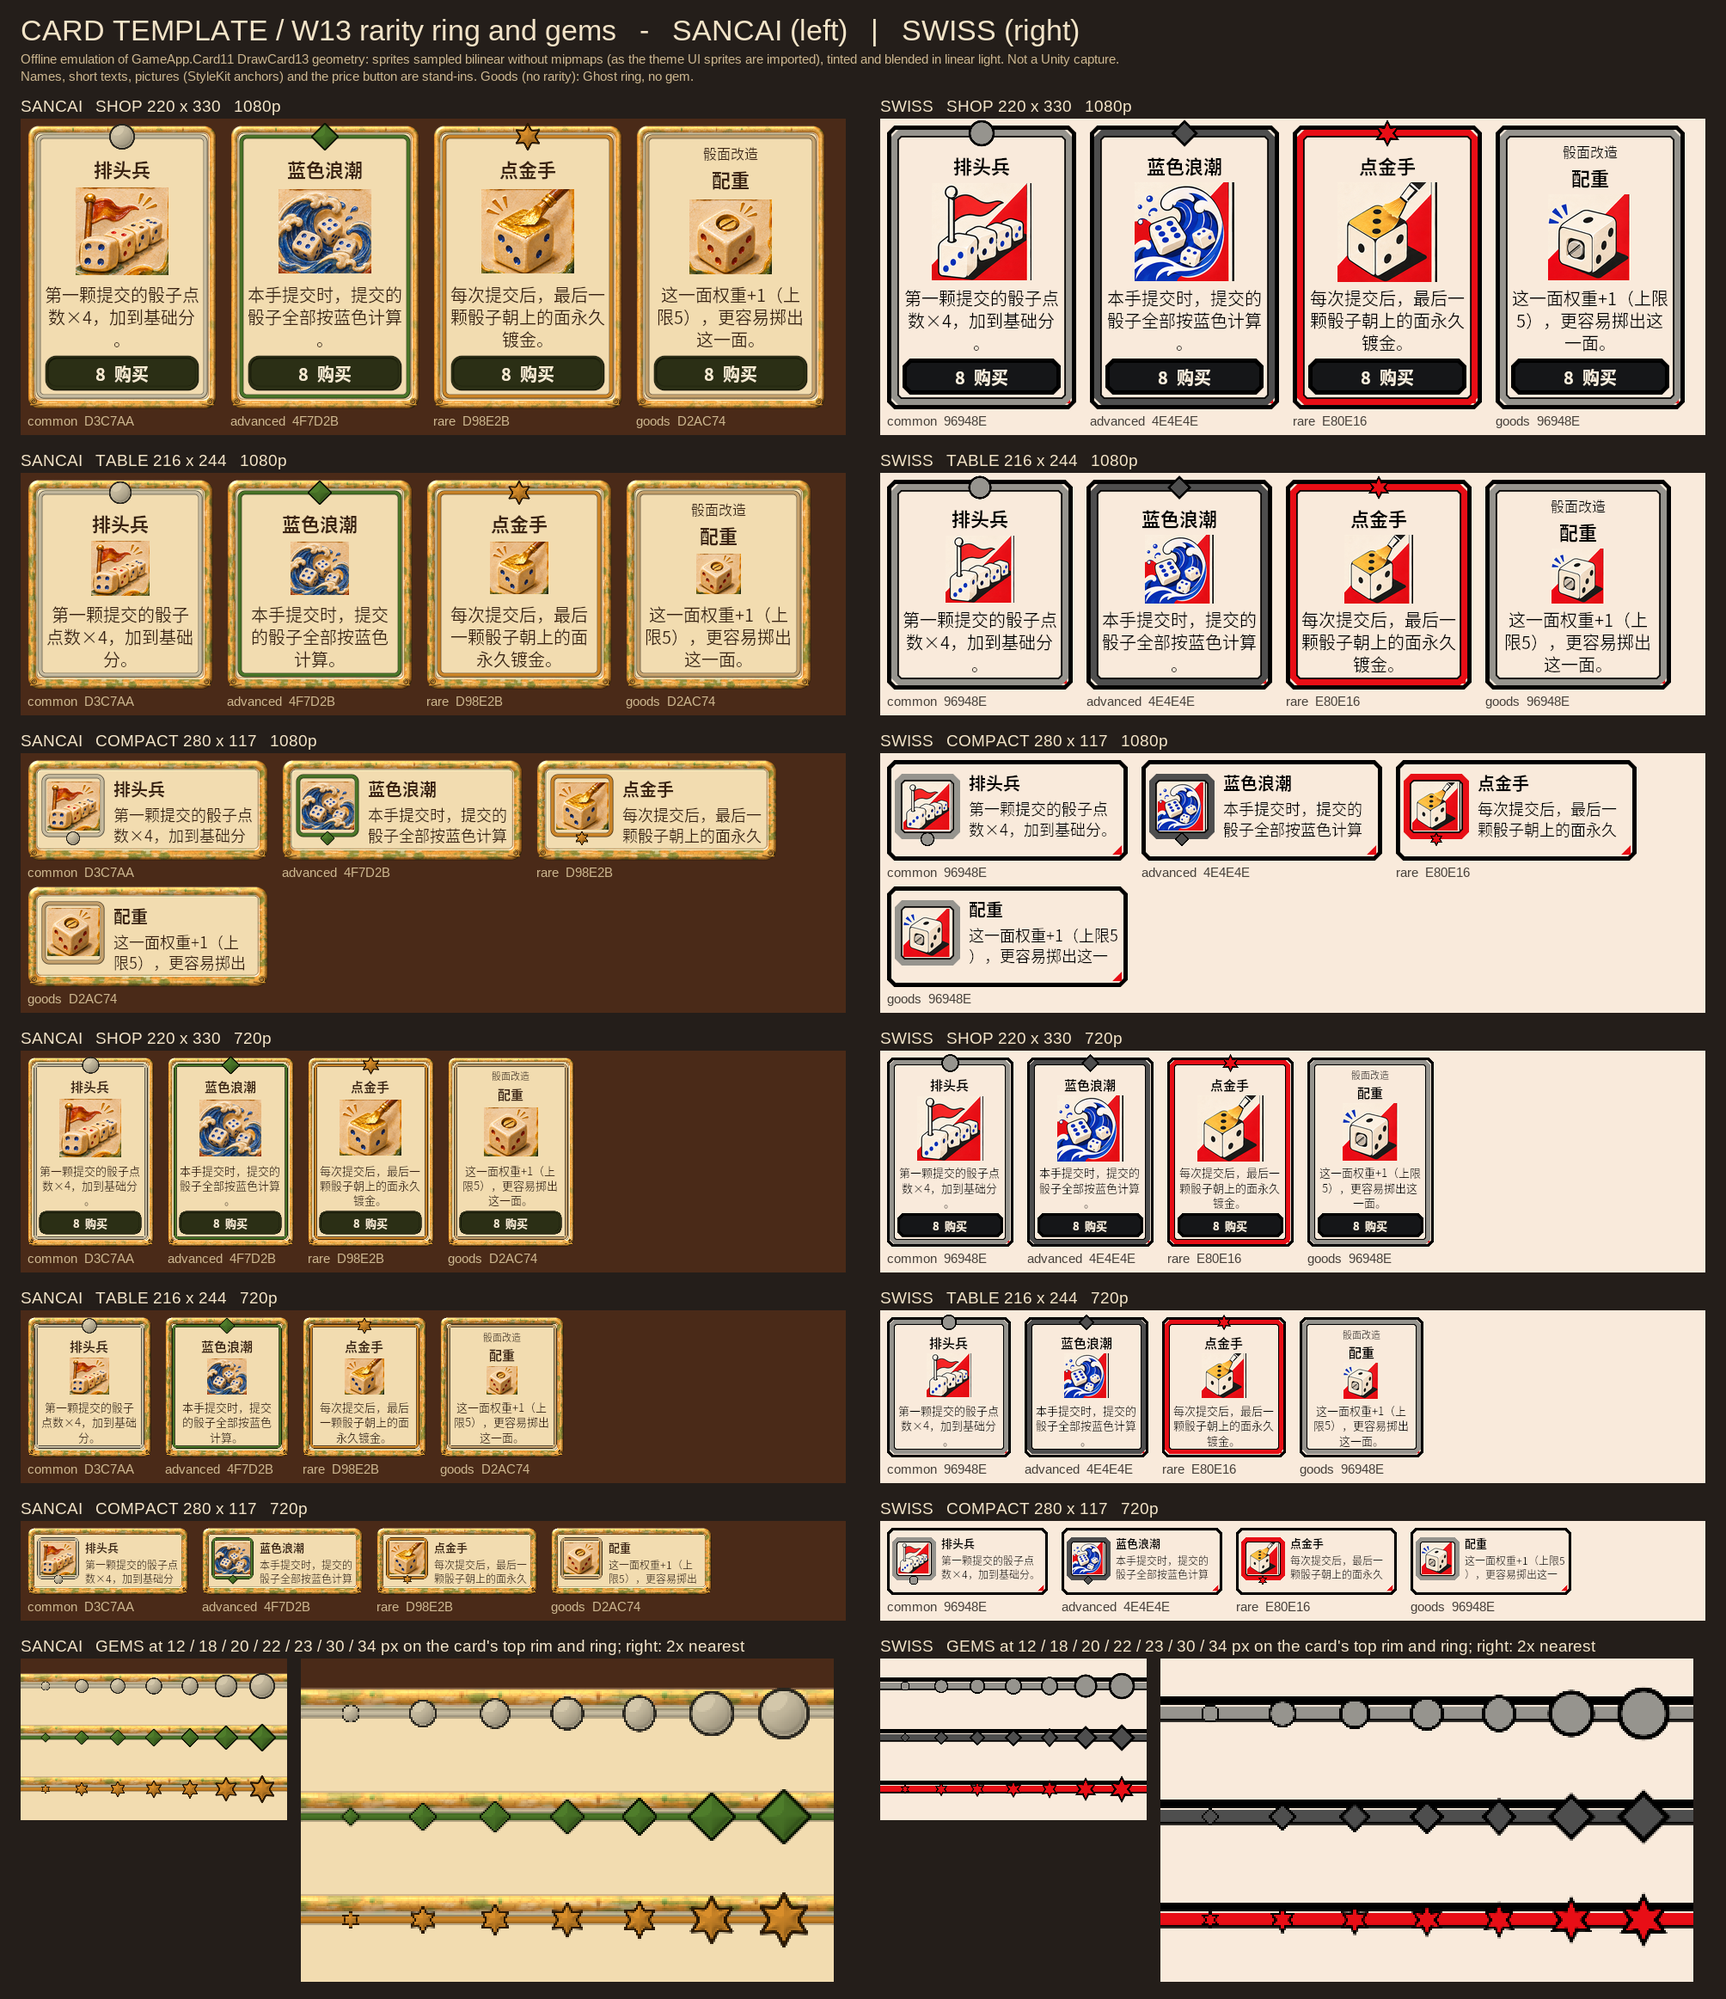
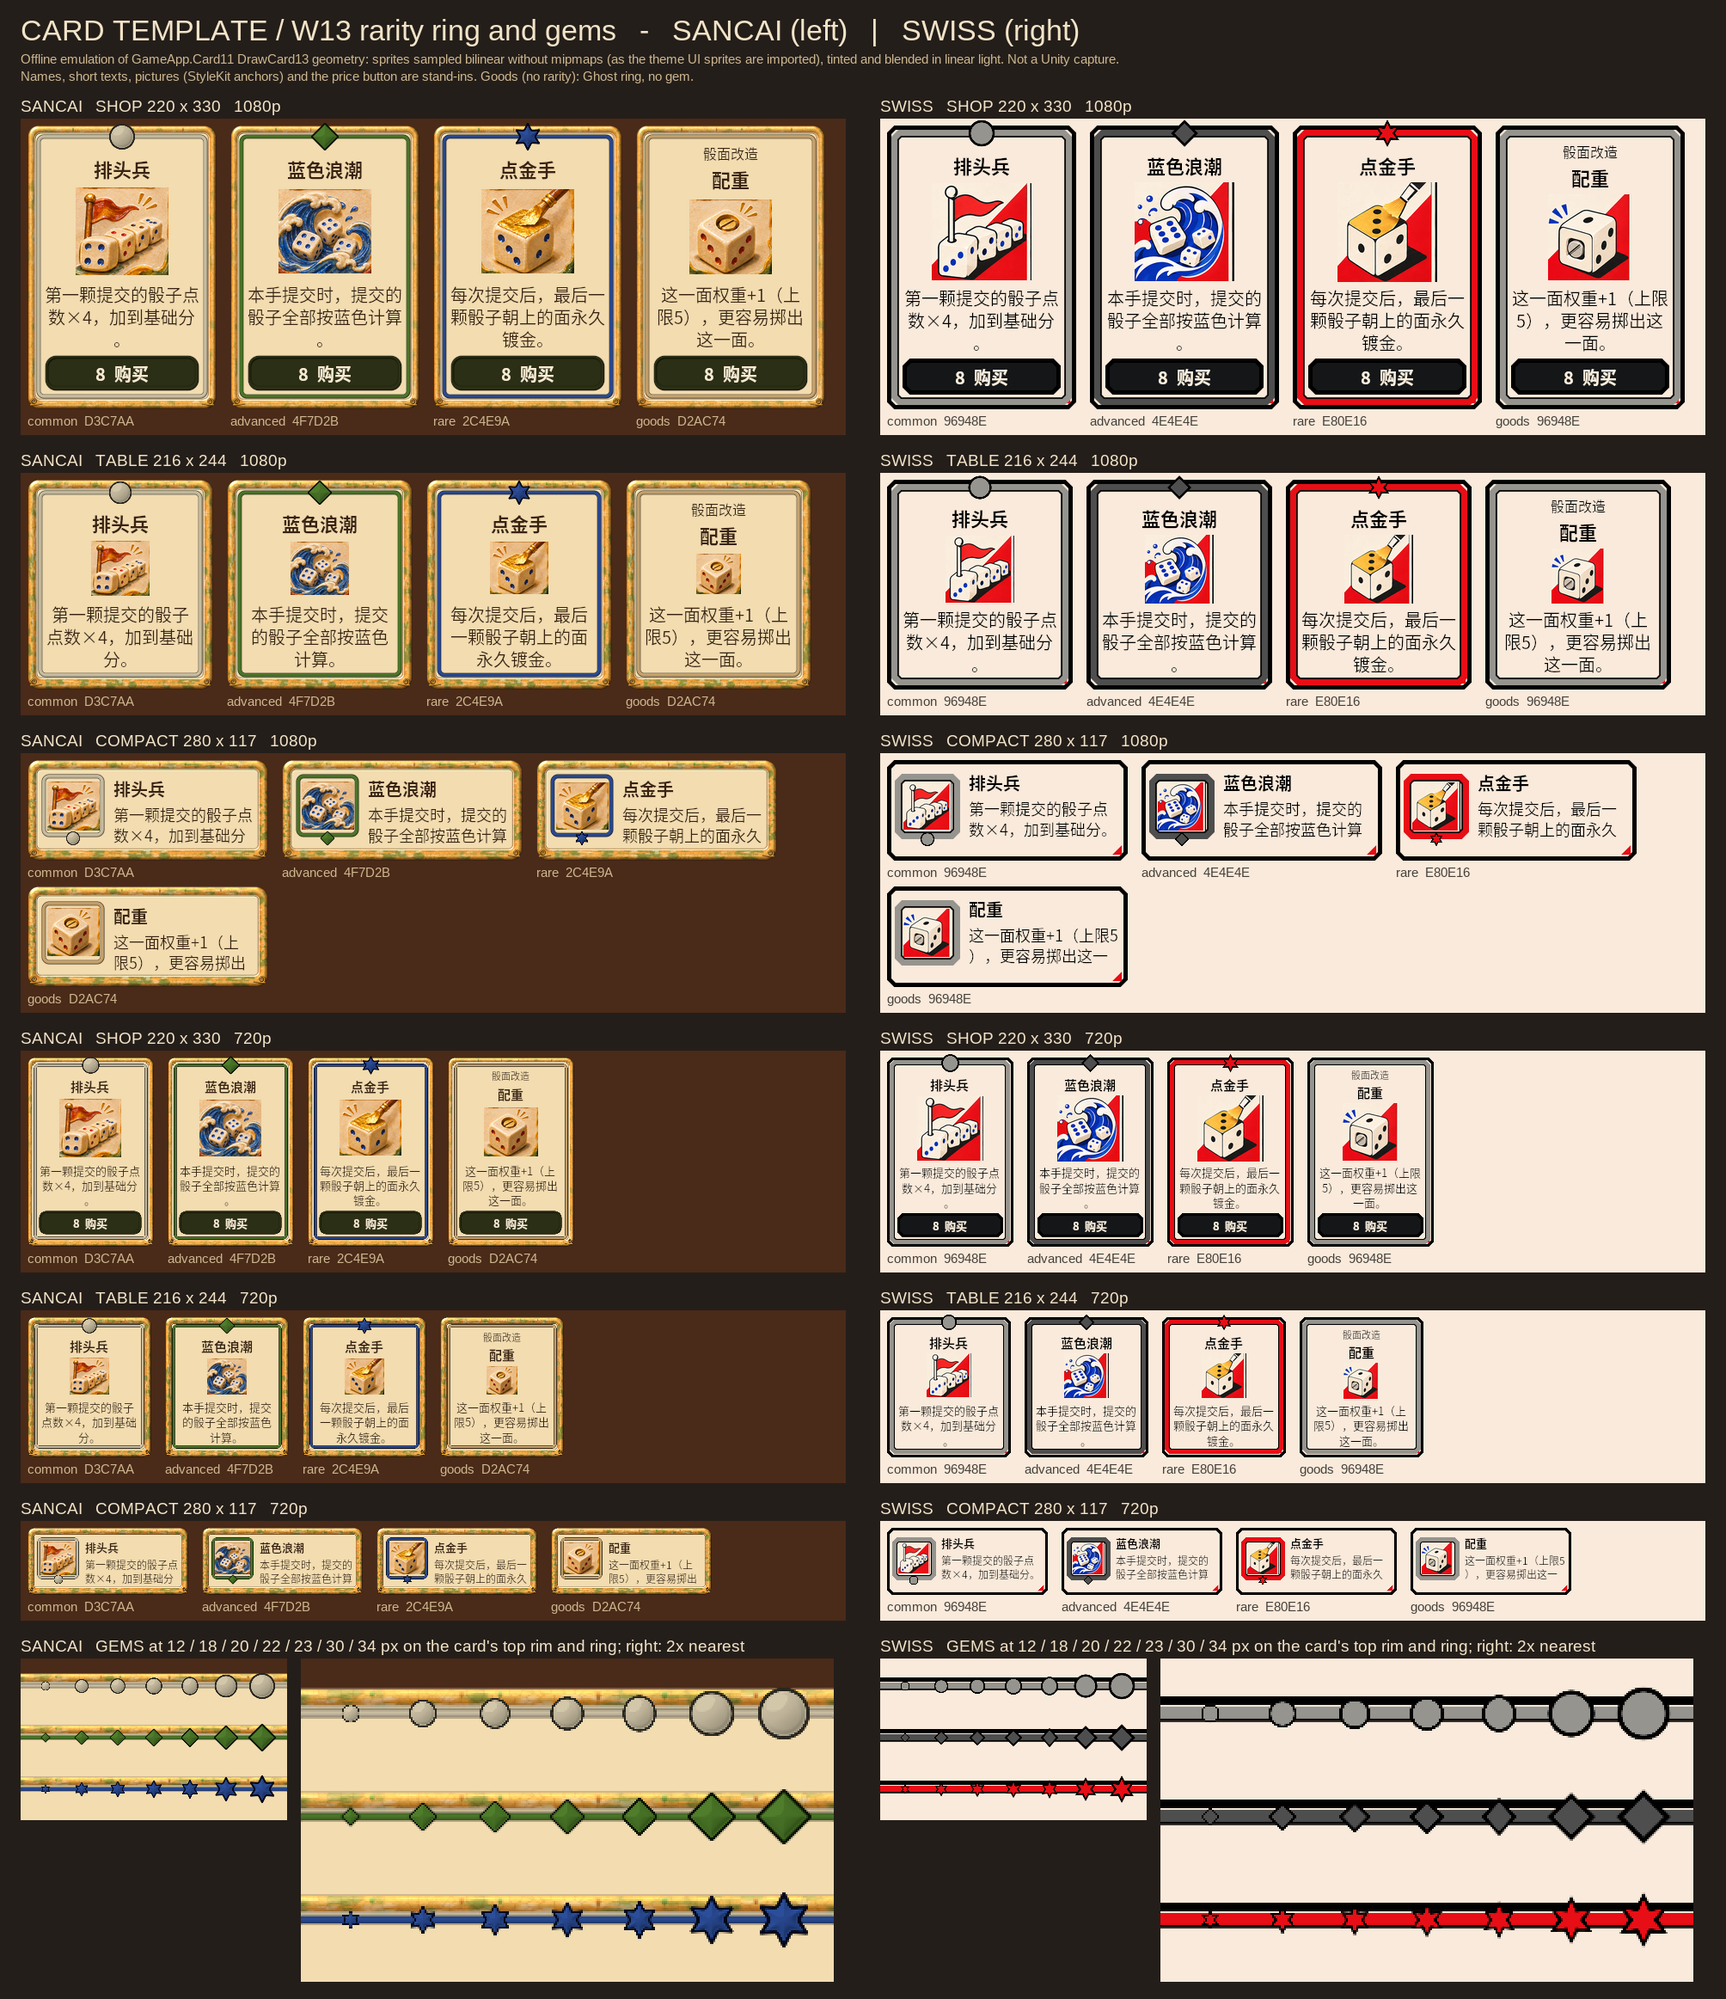
art(v1.1 W20 sancai): rare is cobalt, the primary button amber-gold
Coordinator decision 2026-11-17: cobalt, the rarest sancai glaze and the
concept card page's "稀有" seal, marks rare cards; the one primary action
per phase takes the amber-gold glaze, as the default style's main button
is gold. Common stays ivory, the ring stays slim, the rest of the palette
is unchanged.
- rarityRare 2C4E9A: the kit's COBALT glaze (seal sampled 274577, lit
  2B5A94). The old primary 3060B8 fails the 1.4 lightness ratio against
  the copper green (1.23). Ratios now 2.91 / 4.70 / 1.61.
- primary EBA53F (= gold): LabelOn11 picks ink at 7.05:1; dE76 to the
  rarities 48.4 / 58.1 / 112.5 (>= 40). Chosen over D98E2B: higher label
  contrast (7.05 vs 5.54), farther from pressure (CIEDE2000 18.6 vs 14.5),
  and D98E2B is the amber glaze of the card and panel rims.
- valueBadge stays unset (gold): value and warning badges drawn on the
  ui_chip_label face, E49630 vs 9B2B15, CIEDE2000 38.4 and 3.17:1, labels
  6.14 / 6.52 without darkening (THEME_SPEC 2 on codex/v1.1).

The offline mock now labels the primary button with the LabelOn11 pick.
Only theme.json, the contact sheet, preview.png (the mock reduced 4x) and
the card template review changed; the other 55 tracked outputs are
byte-identical to 57279a50. Tests: the label on primary, the value badge
rule (CIEDE2000 checked against Sharma et al.'s data), and theme.json may
leave out codex/v1.1's optional valueBadge key. Sancai 29/29, full suite
271/271, strict audit 53 shipped / 0 missing.

diff --git a/tools/art_v11/sancai/build_sancai.py b/tools/art_v11/sancai/build_sancai.py
@@ -62,19 +62,22 @@ PALETTE = {
     "danger": "A0301E",       # deep iron red: errors, boss warnings
     "shadow": "140B05",
     "ghost": "D2AC74",        # pale amber: outline buttons, empty slot rings
-    "primary": "3060B8",      # cobalt, the rare fourth glaze: the one primary action per phase
+    # Coordinator decision 2026-11-17: cobalt, the rarest glaze, marks rare cards; the one primary action per phase takes
+    # the amber-gold glaze, as the default style's main button is gold. primary == gold, as in the default palette.
+    "primary": "EBA53F",      # amber-gold glaze: the one primary action per phase (label: ink)
     "reward": "F2B64E",       # bright amber: reward moments
     "boss": "A93F1C",         # iron red
     "pressure": "F07436",     # persimmon orange: pressure stages (a warning hue, never grey)
     "rarityCommon": "D3C7AA", # plain ivory glaze
     "rarityAdvanced": "4F7D2B",  # copper-green glaze
-    "rarityRare": "D98E2B",   # amber-gold glaze
+    "rarityRare": "2C4E9A",   # cobalt glaze (COBALT below): the concept card page's "稀有" seal
     "onFelt": "EBD3A4",       # light cream marks drawn straight on the felt
 }
 THEME_META = {
     "id": "sancai",
     "displayName": "唐三彩陶坊",
-    "description": ("琥珀、铜绿、乳白三色铅釉：圆润软棱的釉面陶板、海棠委角、祥云卷角、细密开片与流釉，深褐陶胎桌面，深钴蓝只用于主按钮。"
+    "description": ("琥珀、铜绿、乳白三色铅釉：圆润软棱的釉面陶板、海棠委角、祥云卷角、细密开片与流釉，深褐陶胎桌面；"
+                    "主按钮用琥珀金釉，深钴蓝只留给稀有。"
                     "依据：ArtSource/StyleKit/themes/sancai/concepts 与 style_kit.json；界面件与色板由 "
                     "tools/art_v11/sancai/build_sancai.py 生成（说明见同目录 README.md）"),
     "order": 2,
@@ -118,15 +121,65 @@ def delta_e(a: str, b: str) -> float:
     return math.dist(lab(a), lab(b))
 
 
+def ciede2000(lab1, lab2) -> float:
+    """CIEDE2000 colour difference (Sharma, Wu and Dalal 2005; kL = kC = kH = 1)."""
+    L1, a1, b1 = lab1
+    L2, a2, b2 = lab2
+    c7 = ((math.hypot(a1, b1) + math.hypot(a2, b2)) / 2) ** 7
+    g = .5 * (1 - math.sqrt(c7 / (c7 + 25 ** 7)))
+    a1, a2 = a1 * (1 + g), a2 * (1 + g)
+    C1, C2 = math.hypot(a1, b1), math.hypot(a2, b2)
+    h1 = math.degrees(math.atan2(b1, a1)) % 360 if C1 else 0.0
+    h2 = math.degrees(math.atan2(b2, a2)) % 360 if C2 else 0.0
+    dh = 0.0 if C1 * C2 == 0 else (h2 - h1 + 180) % 360 - 180
+    dL, dC, dH = L2 - L1, C2 - C1, 2 * math.sqrt(C1 * C2) * math.sin(math.radians(dh / 2))
+    L, C = (L1 + L2) / 2, (C1 + C2) / 2
+    if C1 * C2 == 0:
+        h = h1 + h2
+    elif abs(h1 - h2) <= 180:
+        h = (h1 + h2) / 2
+    else:
+        h = (h1 + h2 + 360) / 2 if h1 + h2 < 360 else (h1 + h2 - 360) / 2
+    t = (1 - .17 * math.cos(math.radians(h - 30)) + .24 * math.cos(math.radians(2 * h))
+         + .32 * math.cos(math.radians(3 * h + 6)) - .2 * math.cos(math.radians(4 * h - 63)))
+    sl = 1 + .015 * (L - 50) ** 2 / math.sqrt(20 + (L - 50) ** 2)
+    sc, sh = 1 + .045 * C, 1 + .015 * C * t
+    rt = -math.sin(math.radians(60 * math.exp(-((h - 275) / 25) ** 2))) * 2 * math.sqrt(C ** 7 / (C ** 7 + 25 ** 7))
+    return math.sqrt((dL / sl) ** 2 + (dC / sc) ** 2 + (dH / sh) ** 2 + rt * (dC / sc) * (dH / sh))
+
+
+def _gam(c: float) -> float:
+    c = max(c, 0.0)
+    return c * 12.92 if c <= .0031308 else 1.055 * c ** (1 / 2.4) - .055
+
+
+def drawn(fill: str, tint: str) -> str:
+    """A sprite pixel tinted as Unity UI draws it in this linear-colour-space project (GameApp.RenderedFill11)."""
+    return "".join(f"{int(round(_gam(_lin(f) * _lin(t)) * 255)):02X}" for f, t in zip(rgb8(fill), rgb8(tint)))
+
+
+def best_label(fill: str, palette: dict) -> tuple[str, float]:
+    """GameApp.BestLabel11: of ink, paper and textColor, the label with the highest contrast on a drawn fill."""
+    key = max(("ink", "paper", "textColor"), key=lambda k: contrast(palette[k], fill))
+    return key, contrast(palette[key], fill)
+
+
 def palette_report(palette: dict | None = None) -> dict[str, float]:
     """Contrast numbers quoted in the README and asserted by the tests (WCAG 2 sRGB relative luminance)."""
     p = palette or PALETTE
+    # THEME_SPEC section 2 valueBadge (unset: gold) and danger, drawn on the ui_chip_label face (ValueBadge13).
+    chip = "".join(f"{int(round(float(v) * 255)):02X}" for v in LABEL_FILL)
+    value_fill, warning_fill = drawn(chip, p.get("valueBadge", p["gold"])), drawn(chip, p["danger"])
     out = {
         "textColor/panel": contrast(p["textColor"], p["panel"]),
         "ink/paper": contrast(p["ink"], p["paper"]),
         "muted/panel": contrast(p["muted"], p["panel"]),
         "onFelt/felt": contrast(p["onFelt"], p["felt"]),
-        "textColor/primary": contrast(p["textColor"], p["primary"]),
+        f"{best_label(p['primary'], p)[0]}/primary (label pick)": best_label(p["primary"], p)[1],
+        "valueBadge/danger badge dE00 (drawn)": ciede2000(lab(value_fill), lab(warning_fill)),
+        "valueBadge/danger badge contrast (drawn)": contrast(value_fill, warning_fill),
+        f"{best_label(value_fill, p)[0]}/valueBadge (drawn)": best_label(value_fill, p)[1],
+        f"{best_label(warning_fill, p)[0]}/danger badge (drawn)": best_label(warning_fill, p)[1],
         "textColor/boss": contrast(p["textColor"], p["boss"]),
         "ink/pressure": contrast(p["ink"], p["pressure"]),
         "textColor/panelLight": contrast(p["textColor"], p["panelLight"]),
@@ -1953,7 +2006,7 @@ def play_mock(sprites, specs, table) -> Image.Image:
     m.text(692, 1002, "重掷 · 还能掷 2", 21, P["textColor"], "mm")
     m.put("ui_button_bevel", 842, 970, 396, 74, col("B56B29"))
     m.put("ui_button_bevel", 840, 962, 400, 73, col(P["primary"]))
-    m.text(1040, 998, "提交 2 颗", 28, P["textColor"], "mm")
+    m.text(1040, 998, "提交 2 颗", 28, label_on(col(P["primary"])), "mm")   # the label LabelOn11 picks
     m.put("ui_button_bevel", 1498, 970, 388, 74, col("8F453A"))
     m.put("ui_button_bevel", 1496, 962, 392, 73, col(P["paper"]))
     m.text(1692, 998, "结束本关 · 结算", 24, P["ink"], "mm")

diff --git a/tests/test_art_v11_sancai.py b/tests/test_art_v11_sancai.py
@@ -91,6 +91,55 @@ def lab(rgb):
     return np.array((116 * f(y) - 16, 500 * (f(x) - f(y)), 200 * (f(y) - f(z))))
 
 
+def ciede2000(lab1, lab2):
+    """CIEDE2000 (Sharma, Wu and Dalal 2005), written out step by step from the paper's equations."""
+    (l1, a1, b1), (l2, a2, b2) = (tuple(float(x) for x in v) for v in (lab1, lab2))
+    c_mean = (math.hypot(a1, b1) + math.hypot(a2, b2)) / 2
+    g = 0.5 * (1 - math.sqrt(c_mean ** 7 / (c_mean ** 7 + 25.0 ** 7)))
+    a1p, a2p = (1 + g) * a1, (1 + g) * a2
+    c1p, c2p = math.hypot(a1p, b1), math.hypot(a2p, b2)
+    h1p = 0.0 if a1p == 0 and b1 == 0 else math.degrees(math.atan2(b1, a1p)) % 360
+    h2p = 0.0 if a2p == 0 and b2 == 0 else math.degrees(math.atan2(b2, a2p)) % 360
+    delta_l = l2 - l1
+    delta_c = c2p - c1p
+    if c1p * c2p == 0:
+        delta_h = 0.0
+    elif abs(h2p - h1p) <= 180:
+        delta_h = h2p - h1p
+    elif h2p - h1p > 180:
+        delta_h = h2p - h1p - 360
+    else:
+        delta_h = h2p - h1p + 360
+    delta_hh = 2 * math.sqrt(c1p * c2p) * math.sin(math.radians(delta_h) / 2)
+    l_mean = (l1 + l2) / 2
+    cp_mean = (c1p + c2p) / 2
+    if c1p * c2p == 0:
+        hp_mean = h1p + h2p
+    elif abs(h1p - h2p) <= 180:
+        hp_mean = (h1p + h2p) / 2
+    elif h1p + h2p < 360:
+        hp_mean = (h1p + h2p + 360) / 2
+    else:
+        hp_mean = (h1p + h2p - 360) / 2
+    t = (1 - 0.17 * math.cos(math.radians(hp_mean - 30)) + 0.24 * math.cos(math.radians(2 * hp_mean))
+         + 0.32 * math.cos(math.radians(3 * hp_mean + 6)) - 0.20 * math.cos(math.radians(4 * hp_mean - 63)))
+    delta_theta = 30 * math.exp(-((hp_mean - 275) / 25) ** 2)
+    r_c = 2 * math.sqrt(cp_mean ** 7 / (cp_mean ** 7 + 25.0 ** 7))
+    s_l = 1 + 0.015 * (l_mean - 50) ** 2 / math.sqrt(20 + (l_mean - 50) ** 2)
+    s_c = 1 + 0.045 * cp_mean
+    s_h = 1 + 0.015 * cp_mean * t
+    r_t = -math.sin(math.radians(2 * delta_theta)) * r_c
+    return math.sqrt((delta_l / s_l) ** 2 + (delta_c / s_c) ** 2 + (delta_hh / s_h) ** 2
+                     + r_t * (delta_c / s_c) * (delta_hh / s_h))
+
+
+def tinted(face, tint):
+    """A face pixel times a tint, in linear light (the project's colour space), back to 8-bit sRGB."""
+    linear = channel(face) * channel(tint)
+    srgb = np.where(linear <= .0031308, linear * 12.92, 1.055 * np.power(linear, 1 / 2.4) - .055)
+    return np.rint(srgb * 255)
+
+
 def png_hashes(folder):
     return {path.relative_to(folder).as_posix(): hashlib.sha256(path.read_bytes()).hexdigest()
             for path in folder.rglob("*.png")}
@@ -517,6 +566,24 @@ class SancaiArtTests(unittest.TestCase):
             with self.subTest(rarity=i):
                 self.assertGreaterEqual(float(np.linalg.norm(lab(p["primary"]) - lab(colour))), 40.0,
                                         "The primary action must not share a rarity colour.")
+        # The primary button's face is white tinted by primary; LabelOn11 picks the best of ink, paper and textColor and
+        # must reach 4.95:1 without darkening the face (THEME_SPEC 2).
+        self.assertGreaterEqual(max(float(contrast(p[k], p["primary"])) for k in ("ink", "paper", "textColor")), 4.95)
+
+    def test_value_and_warning_badges_stay_apart(self):
+        # THEME_SPEC 2 valueBadge (W13 review on codex/v1.1): a card's value badge (valueBadge, unset means gold) and its
+        # warning badge (danger) are told apart at a glance. Drawn as ValueBadge13 draws them, on the ui_chip_label face:
+        # CIEDE2000 at least 20 and luminance contrast at least 1.5:1; each takes a label that reaches 4.95:1 as drawn.
+        self.assertAlmostEqual(ciede2000((50, 2.6772, -79.7751), (50, 0, -82.7485)), 2.0425, places=4)
+        self.assertAlmostEqual(ciede2000((50, -1.3802, -84.2814), (50, 0, -82.7485)), 1.0, places=4)
+        p = {k: np.array(hex_rgb(v), dtype=np.float64) for k, v in self.palette.items()}
+        face = load("ui_chip_label")[256, 256, :3]
+        value, warning = tinted(face, p.get("valueBadge", p["gold"])), tinted(face, p["danger"])
+        for name, fill in (("value", value), ("warning", warning)):
+            with self.subTest(badge=name):
+                self.assertGreaterEqual(max(float(contrast(p[k], fill)) for k in ("ink", "paper", "textColor")), 4.95)
+        self.assertGreaterEqual(ciede2000(lab(value), lab(warning)), 20.0)
+        self.assertGreaterEqual(float(contrast(value, warning)), 1.5)
 
     def test_theme_json_schema(self):
         self.assertEqual(set(self.theme), {"id", "displayName", "description", "order", "preview", "palette"})
@@ -528,8 +595,11 @@ class SancaiArtTests(unittest.TestCase):
         source = (ROOT / "DicePrototype/Assets/Game/UI/Theme/ThemePalette.cs").read_text(encoding="utf-8")
         declared = re.search(r"class Hexes\s*\{\s*public string ([^;]+);", source).group(1)
         keys = {key.strip() for key in declared.replace("\n", " ").split(",")}
-        self.assertEqual(len(keys), 24)
-        self.assertEqual(set(self.palette), keys)
+        # 24 tokens, all set. codex/v1.1 (W13) adds valueBadge, which a style may leave out: unset, the value badge takes
+        # gold (THEME_SPEC 2); test_value_and_warning_badges_stay_apart checks that case.
+        optional = {"valueBadge"}
+        self.assertEqual(len(keys - optional), 24)
+        self.assertEqual(set(self.palette) | (keys & optional), keys)
         for key, value in self.palette.items():
             with self.subTest(token=key):
                 self.assertRegex(value, r"^[0-9A-F]{6}([0-9A-F]{2})?$")
